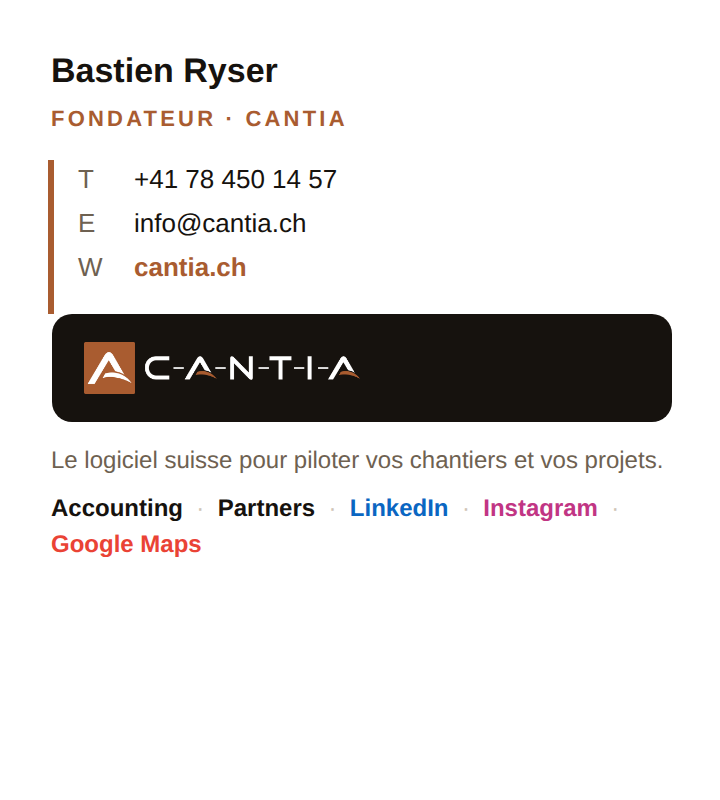
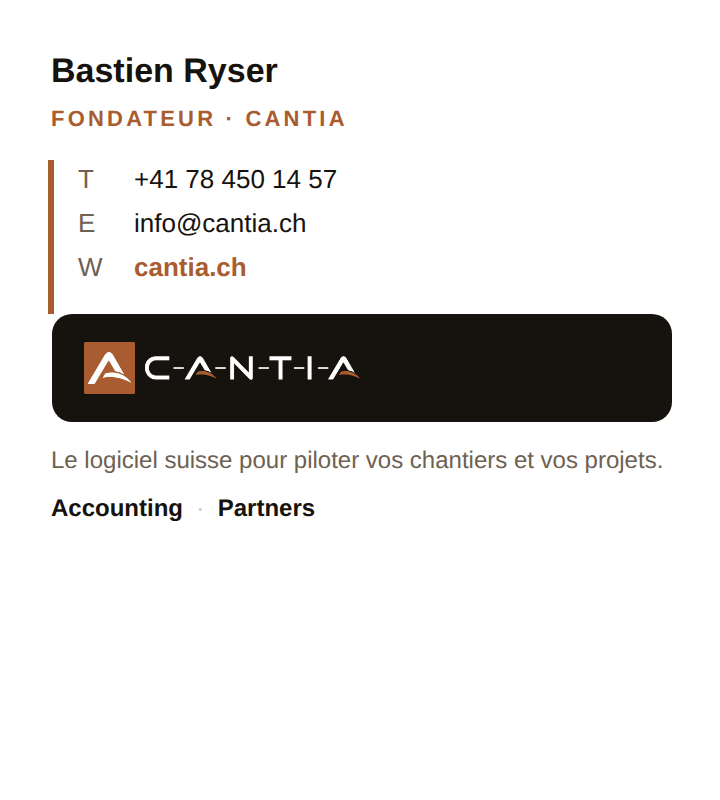
Signature without social links; Instagram and LinkedIn launch texts
Claude-Session: https://claude.ai/code/session_01CbUBuqiAHhNgBBVdNwoKUJ

Changed region(s): [[0.0611, 0.6562, 0.275, 0.7188], [0.6722, 0.625, 0.825, 0.6562], [0.4889, 0.625, 0.6417, 0.6562]]

diff --git a/docs/email-signature/signature-bastien.html b/docs/email-signature/signature-bastien.html
@@ -75,12 +75,6 @@
       <a href="https://accounting.cantia.ch" style="color:#16120E;text-decoration:none;font-weight:600;">Accounting</a>
       <span style="color:#CFC4B6;">&nbsp;·&nbsp;</span>
       <a href="https://partners.cantia.ch" style="color:#16120E;text-decoration:none;font-weight:600;">Partners</a>
-      <span style="color:#CFC4B6;">&nbsp;·&nbsp;</span>
-      <a href="https://www.linkedin.com/company/cantiach/" style="color:#0A66C2;text-decoration:none;font-weight:600;">LinkedIn</a>
-      <span style="color:#CFC4B6;">&nbsp;·&nbsp;</span>
-      <a href="https://www.instagram.com/cantia.ch/" style="color:#C13584;text-decoration:none;font-weight:600;">Instagram</a>
-      <span style="color:#CFC4B6;">&nbsp;·&nbsp;</span>
-      <a href="https://www.google.com/search?kgmid=/g/11y0c24pg4&amp;q=Cantia" style="color:#EA4335;text-decoration:none;font-weight:600;">Google&nbsp;Maps</a>
     </td>
   </tr>
 </table>

diff --git a/docs/social/mise-a-jour-2026/textes.md b/docs/social/mise-a-jour-2026/textes.md
@@ -1,0 +1,44 @@
+# Textes — La grande mise à jour Cantia
+
+## Instagram (carrousel 3 posts)
+
+Le nouveau Cantia est là. 🧡
+
+Nouvelle identité, nouvelles fonctions et deux nouvelles extensions : c'est la plus grosse mise à jour depuis le lancement.
+
+01 · Une nouvelle identité : nouveau logo, nouvelle image, toujours 100 % suisse.
+02 · Chaque devis suivi jusqu'au oui : suivi commercial, relances automatiques et boîte e-mails intégrée.
+03 · Un écosystème complet : Cantia Accounting pour les fiduciaires (gratuit) et Cantia Partners pour ceux qui nous recommandent.
+
+Pensé pour les entreprises du bâtiment, et pour toutes celles qui avancent par projets.
+
+👉 Essai gratuit de 14 jours sur cantia.ch (lien en bio)
+
+#Cantia #LogicielSuisse #Construction #Batiment #Artisan #PME #Suisse #Romandie #Devis #Facturation #GestionDeProjet #MadeInSwitzerland
+
+## LinkedIn
+
+Le nouveau Cantia est en ligne.
+
+Depuis le lancement, on écoute les entreprises qui utilisent Cantia au quotidien. Cette mise à jour, c'est le résultat de ces échanges, et c'est la plus importante à ce jour.
+
+𝗨𝗻𝗲 𝗻𝗼𝘂𝘃𝗲𝗹𝗹𝗲 𝗶𝗱𝗲𝗻𝘁𝗶𝘁𝗲́
+Un nouveau logo et une image plus claire, plus pro, toujours conçue et hébergée en Suisse.
+
+𝗖𝗵𝗮𝗾𝘂𝗲 𝗱𝗲𝘃𝗶𝘀 𝘀𝘂𝗶𝘃𝗶 𝗷𝘂𝘀𝗾𝘂'𝗮𝘂 𝗼𝘂𝗶
+→ Suivi commercial : vous savez quand un client ouvre votre devis et quand il répond.
+→ Relances automatiques : vos devis sont relancés au bon moment, sans y penser.
+→ Boîte e-mails intégrée : les réponses des clients sont classées sur le bon document.
+→ Votre vocabulaire : chantier, projet, mandat ou dossier, Cantia s'adapte à votre métier.
+
+𝗗𝗲𝘂𝘅 𝗻𝗼𝘂𝘃𝗲𝗹𝗹𝗲𝘀 𝗲𝘅𝘁𝗲𝗻𝘀𝗶𝗼𝗻𝘀
+→ Cantia Accounting : l'espace des fiduciaires, pour accéder aux pièces, paiements et échéances TVA de leurs clients. Gratuit pour les fiduciaires.
+→ Cantia Partners : le programme pour celles et ceux qui recommandent Cantia autour d'eux et veulent gagner davantage.
+
+Cantia reste né dans le bâtiment, mais il sert aujourd'hui toutes les entreprises qui avancent par projets.
+
+Merci à tous ceux qui nous font confiance. Vos retours ont construit cette version.
+
+👉 Découvrir la mise à jour et essayer gratuitement : https://cantia.ch
+
+#Cantia #LogicielSuisse #Construction #PME #Suisse #Digitalisation #GestionDeProjet
